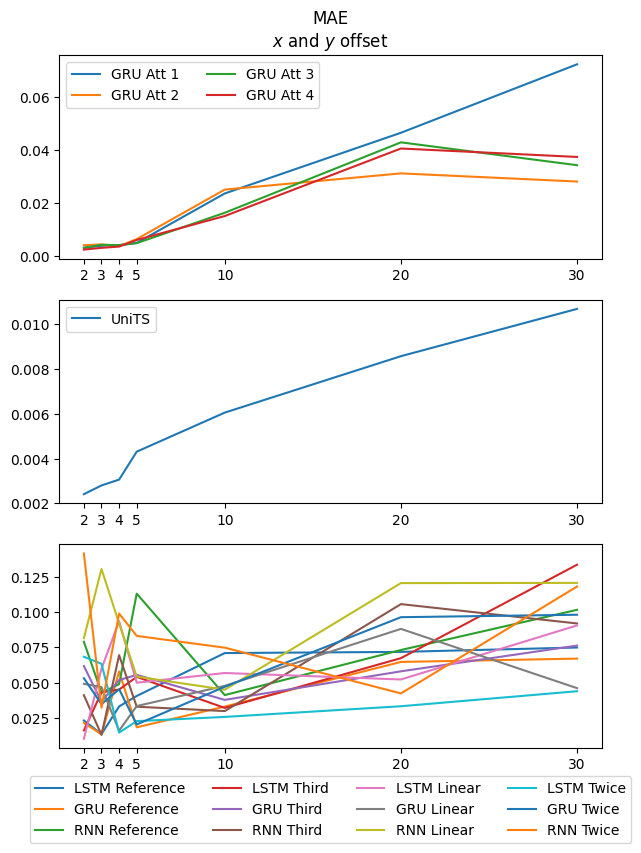
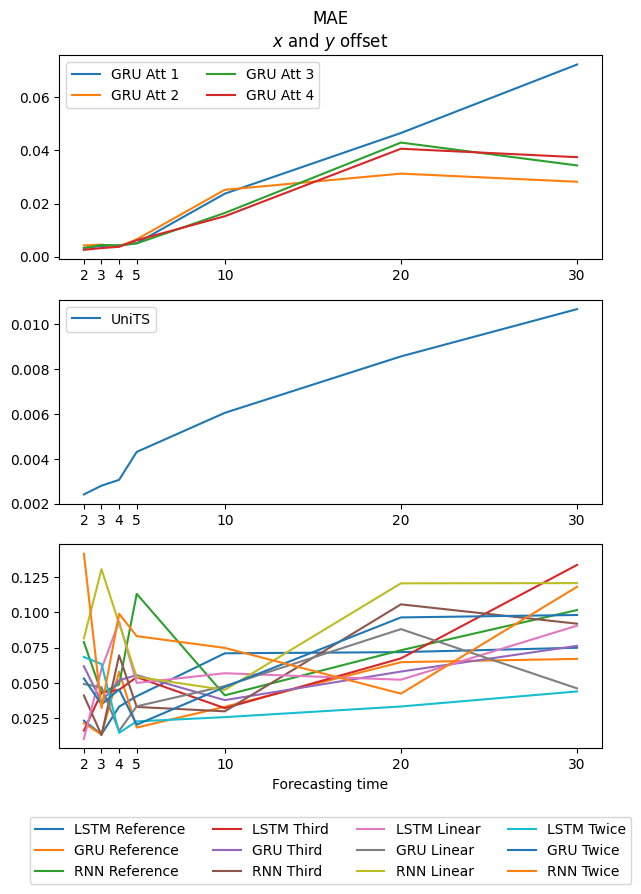
Fix img

diff --git a/read_dicti_all_traj_save_as_image.py b/read_dicti_all_traj_save_as_image.py
@@ -26,7 +26,7 @@ translate_varname = {"long speed ones dir": "speed, heading, a fixed one-second 
                     "long speed actual dir": "speed, heading, the actual time interval",
                     "long no abs": "$x$ and $y$ offset"}
 start_of_table = "\\begin{figure}[!t]\n\t\\centering\n\t\\includegraphics[width = 0.99\linewidth]{FILENAME}"
-end_of_table = "\n\t\\caption{METRICNAME for the trajectories in the testing dataset estimated using VARNAME, different RNN models, and different window sizes.}\n\t\\label{fig:test_VARNAME_METRICNAME}\n\\end{figure}\n"
+end_of_table = "\n\t\\caption{METRICNAME for the trajectories in the testing dataset estimated using VARNAME, different RNN models, and different forecasting times.}\n\t\\label{fig:test_VARNAME_METRICNAME}\n\\end{figure}\n"
 for metric_name_use in metrictouse:
     for varname in vartouse:
         line_for_model = dict()
@@ -114,7 +114,8 @@ for metric_name_use in metrictouse:
         for model_name_use in ord_metric3:
             plt.plot(list_ws, line_for_model[model_name_use], label = model_name_use.replace("_", " ").replace(" 256", "").replace(" longlat speed direction", ""))
         plt.xticks(list_ws)
-        plt.legend(ncol = 4, loc = "lower center", bbox_to_anchor = (0.5, -0.5))
+        plt.xlabel("Forecasting time")
+        plt.legend(ncol = 4, loc = "lower center", bbox_to_anchor = (0.5, -0.7))
         #plt.show()
         plt.savefig("new_img_traj/" + metric_name_use + "_" + varname + ".png", bbox_inches = "tight")
         plt.close()

diff --git a/read_dicti_all_save_as_image.py b/read_dicti_all_save_as_image.py
@@ -23,7 +23,7 @@ metrictouse = ["MAE", "R2"]
 vartouse = ["direction", "speed", "longitude_no_abs", "latitude_no_abs"]
 translate_varname = {"direction": "heading", "speed": "speed", "longitude_no_abs": "$x$ offset", "latitude_no_abs": "$y$ offset", "time": "time intervals"}
 start_of_table = "\\begin{figure}[!t]\n\t\\centering\n\t\\includegraphics[width = 0.99\linewidth]{FILENAME}"
-end_of_table = "\n\t\\caption{METRICNAME for the VARNAME estimated on the testing dataset by different RNN models using different window sizes.}\n\t\\label{fig:test_VARNAME_METRICNAME}\n\\end{figure}\n"
+end_of_table = "\n\t\\caption{METRICNAME for the VARNAME estimated on the testing dataset by different RNN models using different forecasting times.}\n\t\\label{fig:test_VARNAME_METRICNAME}\n\\end{figure}\n"
 for metric_name_use in metrictouse:
     for varname in vartouse:
         line_for_model = dict()
@@ -111,7 +111,8 @@ for metric_name_use in metrictouse:
         for model_name_use in ord_metric3:
             plt.plot(list_ws, line_for_model[model_name_use], label = model_name_use.replace("_", " ").replace(" 256", "").replace(" longlat speed direction", ""))
         plt.xticks(list_ws)
-        plt.legend(ncol = 4, loc = "lower center", bbox_to_anchor = (0.5, -0.5))
+        plt.xlabel("Forecasting time")
+        plt.legend(ncol = 4, loc = "lower center", bbox_to_anchor = (0.5, -0.7))
         #plt.show()
         plt.savefig("new_img/" + metric_name_use + "_" + varname + ".png", bbox_inches = "tight")
         plt.close()
